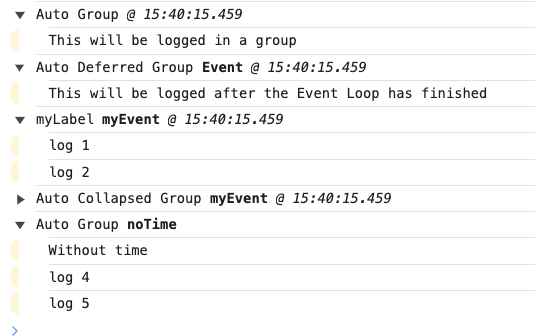
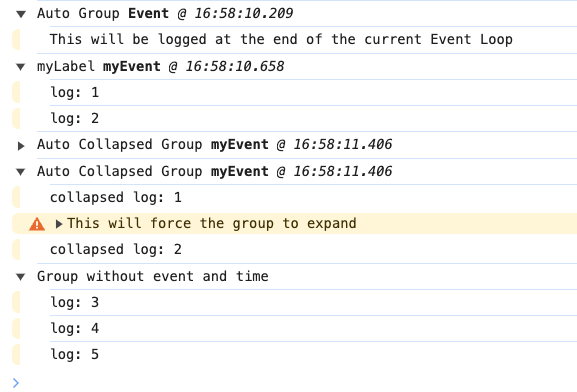
Update example

diff --git a/example.js b/example.js
@@ -3,7 +3,7 @@ import createAutoGroupConsole from './lib/index'
 const COLLAPSED = 'collapsed log'
 
 const deferConsole = createAutoGroupConsole({ defaultEvent: 'Event' })
-const timelessConsole = createAutoGroupConsole({ showTime: false })
+const timelessConsole = createAutoGroupConsole({ label: 'Group without event and time', showTime: false })
 const collapsedConsole = createAutoGroupConsole({ label: 'Auto Collapsed Group', collapsed: true })
 
 setTimeout(() => {
@@ -33,8 +33,7 @@ setTimeout(() => {
 }, 1235)
 
 setTimeout(() => {
-  timelessConsole.log('without time')
   timelessConsole.count('log')
-  timelessConsole.event('noTime')
+  timelessConsole.count('log')
   timelessConsole.count('log')
 }, 1235)
